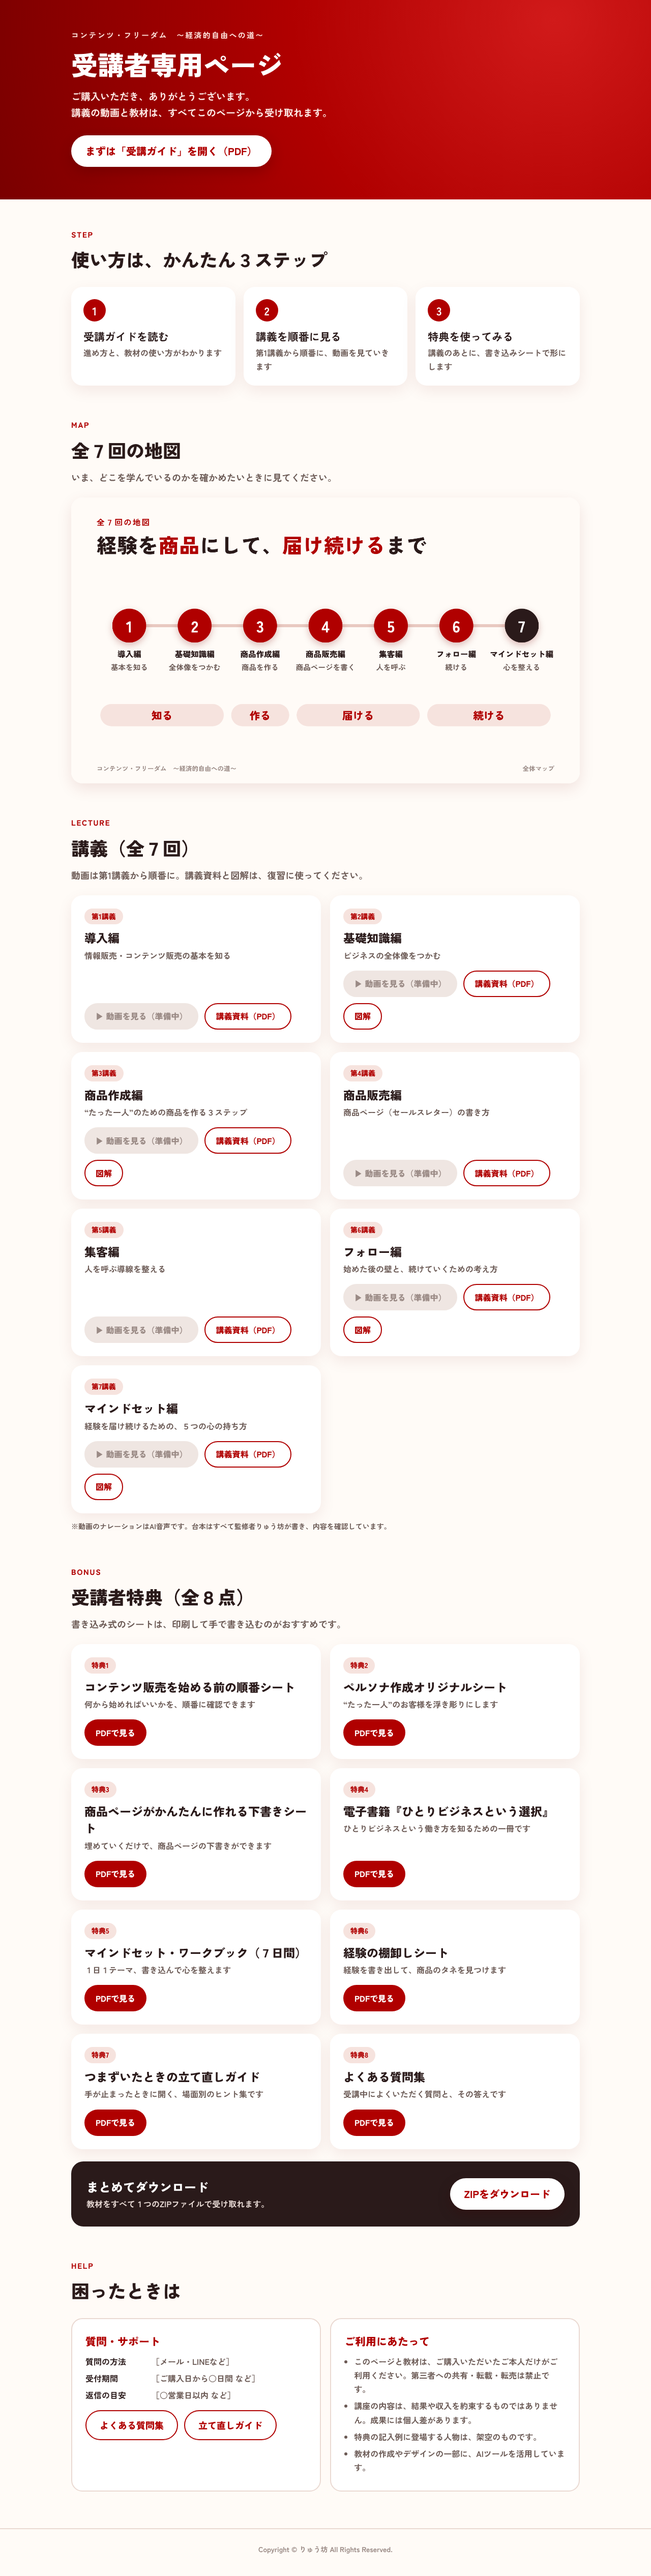
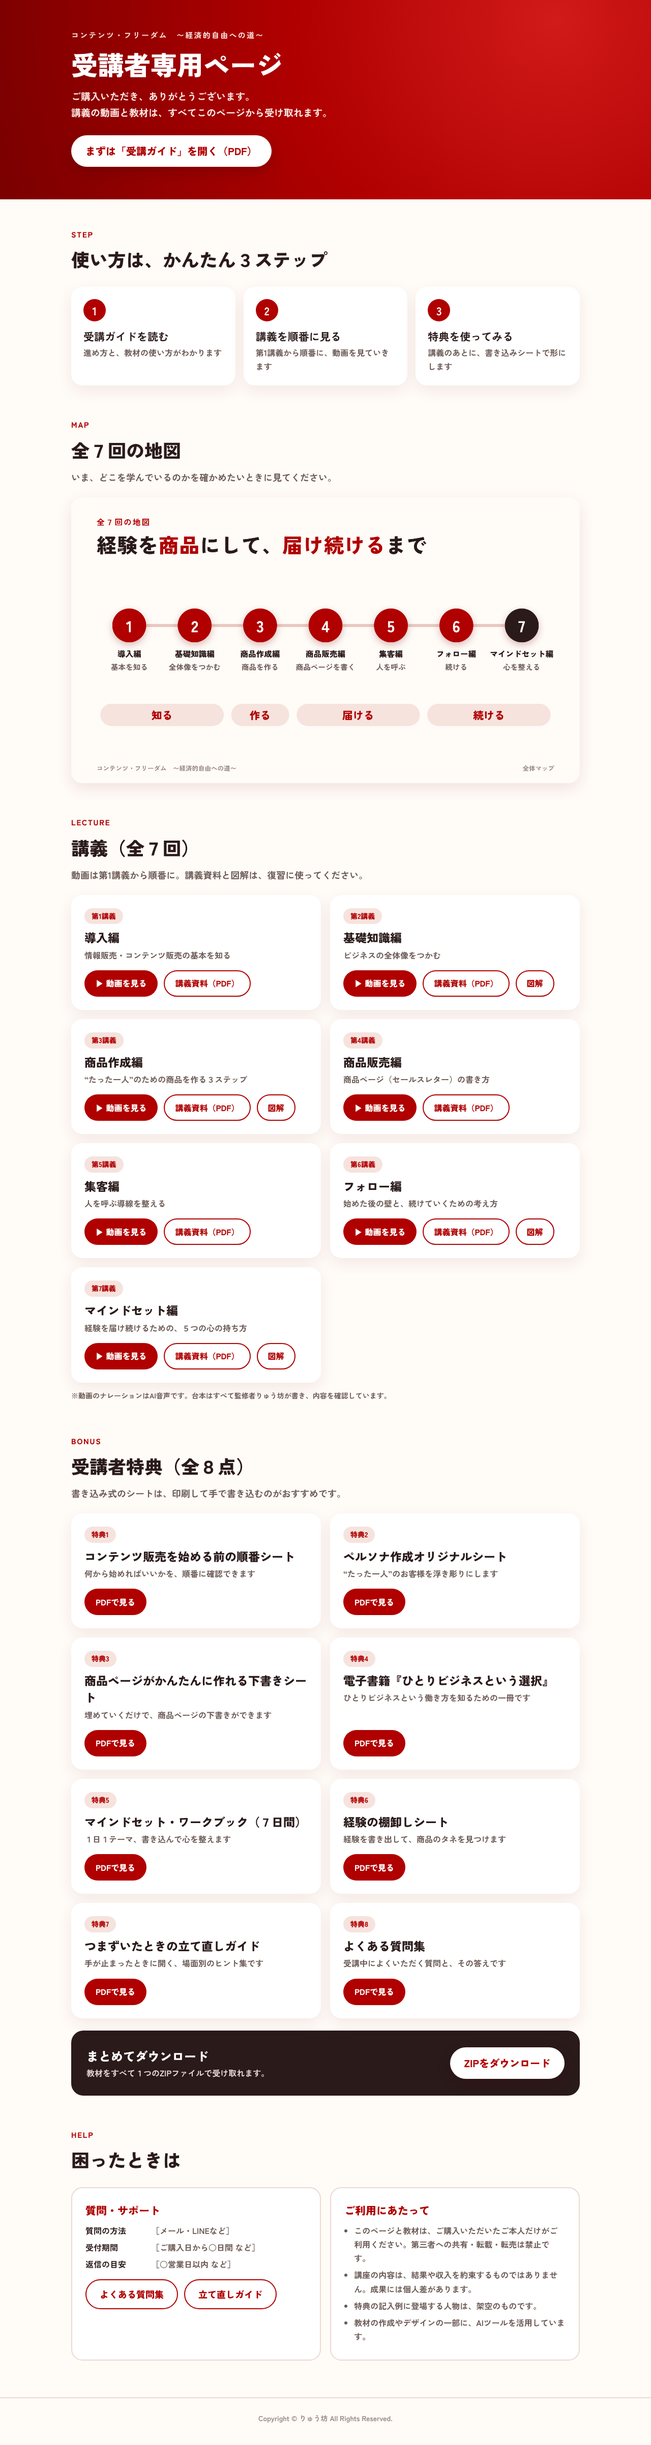
Add YouTube links for all seven lectures to the download site
Claude-Session: https://claude.ai/code/session_0139VzDTkHCLN1iB8kNPgqxS

diff --git a/download-site/index.html b/download-site/index.html
@@ -90,13 +90,13 @@
 -->
 <script>
 const LECTURES = [
-  { no: "第1講義", name: "導入編",           desc: "情報販売・コンテンツ販売の基本を知る",           video: "", pdf: "files/lecture01.pdf", zukai: "" },
-  { no: "第2講義", name: "基礎知識編",       desc: "ビジネスの全体像をつかむ",                     video: "", pdf: "files/lecture02.pdf", zukai: "files/zukai-lecture02.png" },
-  { no: "第3講義", name: "商品作成編",       desc: "“たった一人”のための商品を作る３ステップ",      video: "", pdf: "files/lecture03.pdf", zukai: "files/zukai-lecture03.png" },
-  { no: "第4講義", name: "商品販売編",       desc: "商品ページ（セールスレター）の書き方",          video: "", pdf: "files/lecture04.pdf", zukai: "" },
-  { no: "第5講義", name: "集客編",           desc: "人を呼ぶ導線を整える",                         video: "", pdf: "files/lecture05.pdf", zukai: "" },
-  { no: "第6講義", name: "フォロー編",       desc: "始めた後の壁と、続けていくための考え方",        video: "", pdf: "files/lecture06.pdf", zukai: "files/zukai-lecture06.png" },
-  { no: "第7講義", name: "マインドセット編", desc: "経験を届け続けるための、５つの心の持ち方",      video: "", pdf: "files/lecture07.pdf", zukai: "files/zukai-lecture07.png" },
+  { no: "第1講義", name: "導入編",           desc: "情報販売・コンテンツ販売の基本を知る",           video: "https://youtu.be/5L72n705MEo", pdf: "files/lecture01.pdf", zukai: "" },
+  { no: "第2講義", name: "基礎知識編",       desc: "ビジネスの全体像をつかむ",                     video: "https://youtu.be/JL7rDvWRYAk", pdf: "files/lecture02.pdf", zukai: "files/zukai-lecture02.png" },
+  { no: "第3講義", name: "商品作成編",       desc: "“たった一人”のための商品を作る３ステップ",      video: "https://youtu.be/TgZDzTGERm0", pdf: "files/lecture03.pdf", zukai: "files/zukai-lecture03.png" },
+  { no: "第4講義", name: "商品販売編",       desc: "商品ページ（セールスレター）の書き方",          video: "https://youtu.be/srBBxvhKQAo", pdf: "files/lecture04.pdf", zukai: "" },
+  { no: "第5講義", name: "集客編",           desc: "人を呼ぶ導線を整える",                         video: "https://youtu.be/gsgxp0kyzGI", pdf: "files/lecture05.pdf", zukai: "" },
+  { no: "第6講義", name: "フォロー編",       desc: "始めた後の壁と、続けていくための考え方",        video: "https://youtu.be/BHLJRidFFO8", pdf: "files/lecture06.pdf", zukai: "files/zukai-lecture06.png" },
+  { no: "第7講義", name: "マインドセット編", desc: "経験を届け続けるための、５つの心の持ち方",      video: "https://youtu.be/IYpy3f333y0", pdf: "files/lecture07.pdf", zukai: "files/zukai-lecture07.png" },
 ];
 const BONUSES = [
   { no: "特典1", name: "コンテンツ販売を始める前の順番シート", desc: "何から始めればいいかを、順番に確認できます", pdf: "files/bonus01.pdf" },

diff --git a/download-site/はじめにお読みください.md b/download-site/はじめにお読みください.md
@@ -36,10 +36,10 @@
 
 ## いま「準備中」になっているもの
 
-- 動画（第1講義〜第7講義）のURL
 - 「困ったときは」欄の質問の方法・受付期間・返信の目安
 
-講義資料（全7講義）、受講ガイド、特典1〜8は、すべてそろっています。
+講義動画（全7講義）、講義資料、受講ガイド、特典1〜8は、すべてそろっています。
+動画はYouTubeの「限定公開」にしておくと、リンクを知っている購入者だけが見られます。
 
 ## 注意
 
